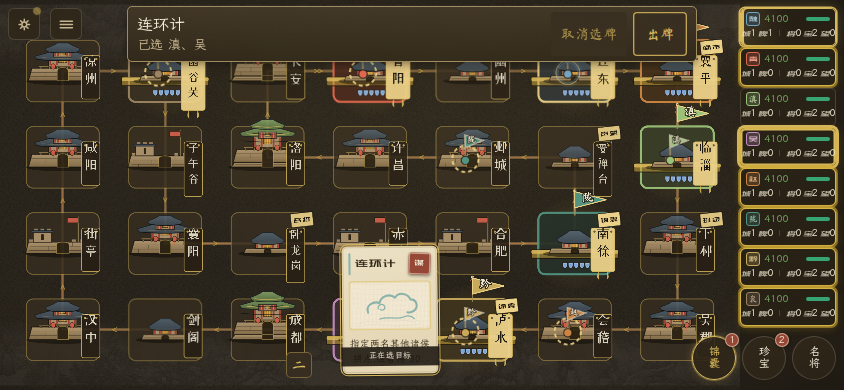
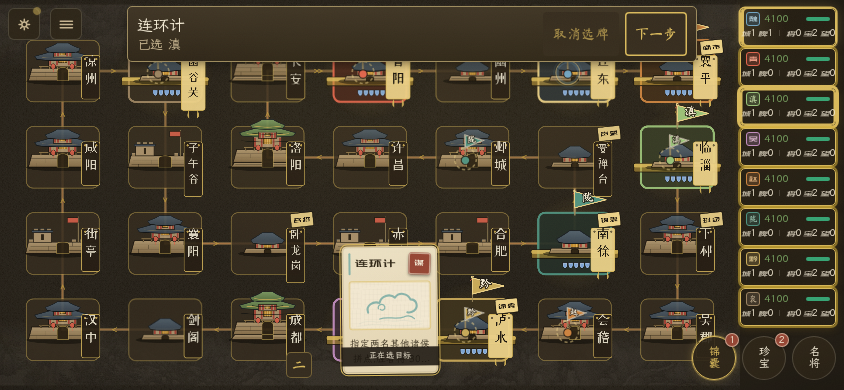
prototype: 同一动作条显示反应范围并支持返回改选（#1403）

diff --git a/src/app/screens/game/GameScreen.tsx b/src/app/screens/game/GameScreen.tsx
@@ -245,10 +245,13 @@ function GameScreenLive({
   const [junshiTargetSeat, setJunshiTargetSeat] = useState<number | null>(null);
   // 城目标首点选中、再点取消、点他格改选,执行经动作条确认。进/出目标段清空。
   const [junshiTargetTile, setJunshiTargetTile] = useState<number | null>(null);
+  // 目标段仍存在时，命令在途的操作锁不能清掉上一步带回的草稿。
+  const hasPendingTarget = snapshot.pendingJinnang != null || snapshot.pendingSkill != null;
+  const ownsJinnangWindow = junshiWindowUp && snapshot.decisionOwner === selfSeat;
   useEffect(() => {
     setJunshiTargetSeat(null);
     setJunshiTargetTile(null);
-  }, [junshiTargeting, junshiUp, selfSeat, selfPlayer.id]);
+  }, [hasPendingTarget, ownsJinnangWindow, selfSeat, selfPlayer.id]);
   const junshiOptions =
     junshiUp && !junshiTargeting
       ? snapshot.choices.filter((o) => o.id !== "pass" && o.id !== "cancel")
@@ -328,6 +331,7 @@ function GameScreenLive({
       // 选中必在(playEnabled 已闸的确认钮自门控),缺选静返=自门控口径(非兜底)。
       const target = junshiCityTargeting ? junshiTargetTile : junshiTargetSeat;
       if (target == null) return;
+      if (targetDemo != null && junshiPendingCard?.stage === "two-a") setJunshiTargetSeat(null);
       getAudio().play("stamp");
       dispatchCommand(junshiTargetCmd(target));
       return;
@@ -541,7 +545,7 @@ function GameScreenLive({
                 affected:
                   reactDomain === "one-city"
                     ? `受击城　${reaction.targetSeats.map(cityNameOf).join("、")}`
-                    : "全体其他诸侯受影响",
+                    : `其余 ${reaction.targetSeats.length} 位诸侯受影响`,
                 domain: reactDomain === "one-city" ? "city" : "seat",
               }
             : undefined
@@ -574,7 +578,8 @@ function GameScreenLive({
   const currentPrototypeTarget =
     junshiTargetTile != null
       ? cityNameOf(junshiTargetTile)
-      : junshiTargetSeat != null
+      : junshiTargetSeat != null &&
+          junshiSeatOptions.some((o) => o.available && o.targetSeat === junshiTargetSeat)
         ? seatLabelOf(junshiTargetSeat)
         : null;
   const prototypePicked = [
@@ -960,6 +965,23 @@ function GameScreenLive({
             testId={TESTIDS.actionbar}
             actions={
               <>
+                {junshiPendingCard?.stage === "two-b" && (
+                  <button
+                    type="button"
+                    className="reaction-btn qian"
+                    data-testid={TESTIDS.actionbarPreviousTarget}
+                    onClick={() => {
+                      setJunshiTargetSeat(junshiPendingCard.picked[0]);
+                      dispatchCommand({
+                        type: "useJinnang",
+                        cardId: junshiPendingCard.cardId,
+                        previousTargetStep: true,
+                      });
+                    }}
+                  >
+                    上一步
+                  </button>
+                )}
                 <button type="button" className="reaction-btn qian" onClick={junshiPass}>
                   {junshiTargeting ? "取消选牌" : "不出"}
                 </button>

diff --git a/src/core/authority.ts b/src/core/authority.ts
@@ -44,6 +44,7 @@ import {
   resolveJinnang,
   settleJinnangExit,
   type PendingJinnang,
+  type UseJinnangCommand,
   type PendingHeroSkill,
 } from "./jinnang-execution";
 // 机遇主流程+体力耗竭域(#320,ADR-0019):机遇触发抽取/抉择机遇入相与选项结算/效果
@@ -186,7 +187,7 @@ export type GameCommand =
     }
   | { type: "declareBankruptcy" }
   | { type: "confirmBankruptcySettle"; assets: BankruptcyAsset[] }
-  | { type: "useJinnang"; cardId: string | null; targets?: number[]; cancel?: boolean } // 锦囊(#122):null=今不用;targets=目标座位(T3/T4 目标段);cancel=作罢(保留牌)
+  | UseJinnangCommand
   | { type: "useHeroSkill"; heroId: string; skillId: string; targets?: number[]; cancel?: boolean } // 名将主动技(#188 档 3;#817 携实例):heroId+skillId=麾下实例定位对(选项 id 拼接单源 choices.skillOptionId),发动直落本实例;targets=目标座位(目标段);cancel=作罢(回卡牌段)
   | { type: "useBookSkill"; treasureId: string; heroId: string } // 用书学技(#1146):treasureId=珍宝位技能书实例,heroId=可学者(skillBookLearners 槽位序单源);技 id 随书派生不另行携带,书用后消耗
   | { type: "dismissHero"; heroId: string } // 遣散(#1147):免费主动遣散——槽移除+回池划名+已学技逐册折书;自己回合随时可点(他座决策窗除外),清算期间禁用
@@ -923,7 +924,12 @@ export class GameEngine {
       case "respondSkillChoice": // 「你可」应答(#1377):决策者=挂问属主=本相位 decisionOwner
         return this.respondSkillChoice(cmd.seat, cmd.use, cmd.targetSeat);
       case "useJinnang":
-        return this.resolveJinnang(cmd.cardId ?? null, cmd.targets, cmd.cancel);
+        return this.resolveJinnang(
+          cmd.cardId ?? null,
+          cmd.targets,
+          cmd.cancel,
+          cmd.previousTargetStep,
+        );
       case "useHeroSkill":
         return this.resolveHeroSkill(cmd.heroId, cmd.skillId, cmd.targets, cmd.cancel);
       case "useBookSkill":
@@ -1164,8 +1170,13 @@ export class GameEngine {
   }
 
   /** 用锦囊(#122/T2):薄委托 → jinnang-execution.resolveJinnang。 */
-  resolveJinnang(cardId: string | null, targets?: number[], cancel?: boolean): void {
-    resolveJinnang(this, cardId, targets, cancel);
+  resolveJinnang(
+    cardId: string | null,
+    targets?: number[],
+    cancel?: boolean,
+    previousTargetStep?: true,
+  ): void {
+    resolveJinnang(this, cardId, targets, cancel, previousTargetStep);
   }
 
   /** 发动主动技(#188 档 3;#817 实例定位):薄委托 → jinnang-execution.resolveHeroSkill。 */

diff --git a/src/core/jinnang-execution.ts b/src/core/jinnang-execution.ts
@@ -51,6 +51,15 @@ export interface PendingJinnang {
   picked: number[];
 }
 
+export interface UseJinnangCommand {
+  type: "useJinnang";
+  cardId: string | null;
+  targets?: number[];
+  cancel?: boolean;
+  /** 多步目标选择从后一步退回，保留牌，重新计算候选。 */
+  previousTargetStep?: true;
+}
+
 /** 技能目标段载荷(#188 档 3;#817 携实例定位):选技后进入选人子状态(AwaitingJinnang
  *  相位内重算选项集);heroId+skillId=麾下实例定位对(与选项 id/命令同形状,拼接单源
  *  choices.skillOptionId),发动直落本实例。随快照走(目标段中途断线可恢复)。
@@ -156,8 +165,18 @@ export function resolveJinnang(
   cardId: string | null,
   targets?: number[],
   cancel?: boolean,
+  previousTargetStep?: true,
 ): void {
   if (!g.assertPhase("AwaitingJinnang", "resolveJinnang")) return;
+  const pending = g.pendingJinnang;
+  if (previousTargetStep) {
+    if (pending?.stage !== "two-b" || cardId !== pending.cardId || cancel || targets != null) {
+      g.warn(`锦囊无法返回上一目标步骤:${cardId}`);
+      return;
+    }
+    g.pendingJinnang = { cardId: pending.cardId, stage: "two-a", picked: [] };
+    return;
+  }
   const p = g.activePlayer;
   const userSeat = g.players.indexOf(p);
 
@@ -172,7 +191,6 @@ export function resolveJinnang(
   }
 
   // ── 目标段:提交目标 / 作罢 ──
-  const pending = g.pendingJinnang;
   if (pending) {
     const def = jinnangCardOf(pending.cardId);
     if (cancel || cardId == null) {

diff --git a/src/app/screens/game/target-decision.prototype.css b/src/app/screens/game/target-decision.prototype.css
@@ -19,6 +19,11 @@
   border: 1px solid var(--color-gold-wash);
   border-radius: 5px;
   box-shadow: var(--ink-shadow-sm);
+  pointer-events: none;
+}
+
+.game-layout .target-decision-prototype:has(.reaction-timerbox.danger) {
+  border-color: color-mix(in srgb, var(--color-danger) 55%, transparent);
 }
 
 .target-decision-prototype-copy {
@@ -27,18 +32,23 @@
 }
 
 .target-decision-prototype-copy p {
-  margin: 3px 0 0;
-  color: var(--color-paper-dim);
+  margin: 2px 0 0;
   font-size: 13px;
+}
+
+.target-decision-prototype-prompt {
+  color: var(--color-paper-dim);
 }
 
 .target-decision-prototype-actions {
   display: flex;
   align-items: center;
+  flex: 0 0 auto;
   gap: 6px;
 }
 
 .target-decision-prototype .reaction-btn {
+  pointer-events: auto;
   justify-content: center;
   min-width: 54px;
   padding-inline: 10px;
@@ -47,7 +57,10 @@
 }
 
 .target-decision-prototype .reaction-mute {
-  padding-inline: 6px;
-  border-inline-start: 1px solid var(--hairline);
+  flex: 0 0 auto;
+  margin-inline: auto 8px;
+  padding-inline: 9px;
+  border-inline: 1px solid var(--hairline);
   font-family: var(--font-brush);
+  pointer-events: auto;
 }

diff --git a/src/app/screens/game/TargetDecision.prototype.tsx b/src/app/screens/game/TargetDecision.prototype.tsx
@@ -8,14 +8,18 @@ export const targetDemo =
 
 export function TargetDecisionPrototype({
   title,
+  affected,
   prompt,
   timer,
+  mute,
   actions,
   testId,
 }: {
   title: string;
+  affected?: string;
   prompt: string;
   timer?: ReactNode;
+  mute?: ReactNode;
   actions: ReactNode;
   testId: string;
 }) {
@@ -24,8 +28,12 @@ export function TargetDecisionPrototype({
       {timer}
       <div className="target-decision-prototype-copy">
         <div>{title}</div>
-        <p aria-live="polite">{prompt}</p>
+        {affected && <p>{affected}</p>}
+        <p className="target-decision-prototype-prompt" aria-live="polite">
+          {prompt}
+        </p>
       </div>
+      {mute}
       <div className="target-decision-prototype-actions">{actions}</div>
     </div>
   );

diff --git a/src/app/screens/game/testids.ts b/src/app/screens/game/testids.ts
@@ -120,6 +120,7 @@ export const TESTIDS = {
   actionbarPass: "actionbar-pass",
   /** 目标段确认钮,未选目标时显示「选择目标」且禁用,选中后显示「出」。 */
   actionbarTarget: "actionbar-target",
+  actionbarPreviousTarget: "actionbar-previous-target",
   /** 目标段「作罢」(收回此计牌:不消耗、不记冷却)。 */
   actionbarCancel: "actionbar-cancel",
   /** 目标段席位按钮(含自机);首点选中、再点取消,打出经动作条确认。 */

diff --git a/src/app/screens/game/ReactionBanner.tsx b/src/app/screens/game/ReactionBanner.tsx
@@ -214,14 +214,15 @@ export function ReactionBanner({
     return (
       <TargetDecisionPrototype
         title={prototypeContext?.title ?? text}
+        affected={prototypeContext?.affected}
         prompt={prototypeBoardPrompt}
         testId={TESTIDS.reactionBanner}
         timer={timer}
+        mute={mute}
         actions={
           <>
             {decline}
             {confirm}
-            {mute}
           </>
         }
       />

diff --git a/docs/design/ui-reference/prototype-1403/target-selection.md b/docs/design/ui-reference/prototype-1403/target-selection.md
@@ -1,6 +1,6 @@
 # 锦囊共用目标选择
 
-工单 [反应窗的份额选择、拍板与降噪层级](https://github.com/openaddr/dafung-web/issues/1403) 的待确认提案。玩家可以沿同一条操作路径选择诸侯、城池或要保护的一份，看到选中结果后再确认。
+工单 [反应窗的份额选择、拍板与降噪层级](https://github.com/openaddr/dafung-web/issues/1403) 的设计决策。玩家沿同一条操作路径选择诸侯、城池或要保护的一份，看到选中结果后再出牌。
 
 ## 三国杀对照
 
@@ -10,22 +10,28 @@
 
 ## 统一操作
 
-动作条固定显示牌名、当前选择提示、已选对象和确认／放弃。候选诸侯在席位上点亮，候选城池在棋盘上点亮。点选改变草稿，再点取消。手牌架收起后，动作条和已选对象仍可读可操作。反应窗另有来者、现有倒计时和独立的降噪口。
+动作条固定在顶部，显示牌名、当前选择提示、已选对象和对应按钮。候选诸侯在席位上点亮，候选城池在棋盘上点亮。点选改变草稿，再点取消。手牌架收起后，动作条和已选对象仍可读可操作。
 
-| 场景           | 本步选择                                   | 确认后的行为                 |
-| -------------- | ------------------------------------------ | ---------------------------- |
-| 窃玉偷香       | 一位有珍宝的诸侯                           | 出牌                         |
-| 连环计         | 先选第一位，保留已选国号，再选另一位       | 第一步进入下一步，第二步出牌 |
-| 火烧连营       | 在棋盘选一座火源                           | 引擎计算火源和溅射的受击城   |
-| 横征暴敛       | 引擎圈定全体其他诸侯                       | 直接出牌                     |
-| 识破诡计       | 从能保护的席位份或城份中选择一份           | 按当前反应窗规则落印         |
-| 将来的弹性多选 | 在同一组中点选 1 至 N 个，满足下限即可确认 | 提交整组选中项               |
-| 将来的依赖选择 | 提示写明每步对象，下一步候选随上一步变化   | 逐步确认，末步提交           |
+反应窗采用 B 的分区。在点反应锦囊前同时显示出牌者、牌名、影响范围和倒计时，选牌、选对象、出牌都在同一位置查看。「出牌／不出」位置固定，「本回合不再询问」单独分开，一步可达。影响范围读本次事件的对象，火烧连营列受击城的名字，横征暴敛给出受影响的诸侯人数。这些文字在选中保护对象后继续显示。
+
+| 场景           | 本步选择                                   | 确认后的行为                       |
+| -------------- | ------------------------------------------ | ---------------------------------- |
+| 窃玉偷香       | 一位有珍宝的诸侯                           | 出牌                               |
+| 连环计         | 先选第一位，再选另一位，第二步可返回改选   | 「下一步」进入第二步，「出牌」提交 |
+| 火烧连营       | 在棋盘选一座火源                           | 引擎计算火源和溅射的受击城         |
+| 横征暴敛       | 引擎圈定全体其他诸侯                       | 直接出牌                           |
+| 识破诡计       | 从能保护的席位份或城份中选择一份           | 按当前反应窗规则出牌               |
+| 将来的弹性多选 | 在同一组中点选 1 至 N 个，满足下限即可确认 | 提交整组选中项                     |
+| 将来的依赖选择 | 提示写明每步对象，下一步候选随上一步变化   | 逐步确认，末步提交                 |
 
 同牌可以同时出现手选目标和规则推导的受击对象。出火烧连营只选火源。显示溅射预览时，由引擎从火源推导受击城。使用识破诡计时，从当前反应窗的受击城中选保护对象。反识破和整计免选的情况直接使用该窗给定的对象与操作。
+
+从后续步骤点「上一步」，先前的选择仍显示为选中，可保留或更换。再次前进时重新计算候选，后续步骤重新选择。连环计改选第一位后，原第一位重新成为第二步候选。「取消选牌」回到手牌区，最终点「出牌」才结算。
 
 ## 落点
 
 现有 `TARGET_DOMAIN_STAGES`、`choices`、`pendingJinnang` 和反应窗载荷继续提供规则事实。共用界面消费本步提示、带对象类型的候选、已选项、数量边界、下一步或最终提交。反应份另外携该次效果的身份，避免同个诸侯或同座城受到多份效果时混淆。城格和座位即使编号相同也用各自的对象类型。具体规则与提交校验由引擎负责，界面复用选中、摘要、按钮可用状态和拍板。已有的目标段与反应窗命令可作为两种接入。
 
 第一轮实盘用连环计两步、火烧连营选火源、识破同一幕的城份检验同一套构图。844×390 下要能看到已选、读清长城名、取消当前选择，并随着阶段正确进入下一步或最终提交。反应窗附加验证收架后找得到「锦囊」、降噪与拍板触区避让，以及实际遮挡。弹性多选在固定示例中检验交互，正式新增牌时补对应权威校验。
+
+正式规格同步修订 [ADR-0032 的响应条位置](../../../adr/0032-hud-float-form-tiers.md) 和 [DESIGN 的反应窗](../../DESIGN.md)。出牌与反应期间临时显示顶部动作条，原位置的知会槽让位。安卓验收检查顶部第一排城格、手牌开收和按钮触区。

diff --git a/docs/design/ui-reference/prototype-1403/in-game/README.md b/docs/design/ui-reference/prototype-1403/in-game/README.md
@@ -2,14 +2,14 @@
 
 同一张关中图、相同八席在 844×390 下实点。原型将动作条放在顶部，经过选牌、目标选择和确认时都在同一位置。
 
-- **连环计**先从下方手牌区点牌，再点顶部「选目标」。两位诸侯都在右侧席位区选，顶部「下一步」锁定第一位，第二步展示第一位国号。选完两位后在顶部「出牌」。[手牌区](duel-1.png) · [右侧选第二位](duel-5.png) · [顶部出牌](duel-6.png)
+- **连环计**先从下方手牌区点牌，再点顶部「选目标」。两位诸侯都在右侧席位区选。点「下一步」后可以点「上一步」回到第一步，原第一位仍为选中。改选第一位后，第二步候选随之更新。选完两位后在顶部「出牌」。[手牌区](duel-1.png) · [上一步入口](duel-5.png) · [返回保留首选](duel-6.png) · [改选后出牌](duel-9.png)
 - **火烧连营**从手牌区点牌并选择目标后，牌架自动收起，在地图上点一座城作火源，再到顶部「出牌」。[地图选城](fire-3.png)
-- **识破诡计**先点手牌中的反应锦囊，牌架自动收起，地图亮出本次的三座受击城。点其中一城，顶部回显保护对象并启用「出牌」。[地图选保护对象](counter-2.png) · [顶部出牌](counter-3.png)
+- **识破诡计**反应窗一开就显示来者、牌名、倒计时和本次三座受击城的名字，「本回合不再询问」单独分区。点手牌中的反应锦囊后，牌架自动收起，地图亮出可保护的城。点其中一城，顶部回显保护对象并启用「出牌」，按钮位置保持不变。[选牌前的影响范围](counter-1.png) · [地图选保护对象](counter-2.png) · [顶部出牌](counter-3.png)
 
 ## 横征暴敛
 
 - **出牌**在下方手牌区点牌。顶部显示其余在场诸侯的人数及每位征收上限，点「出牌」即对这些人结算。八席局的这一幕有七位诸侯各付 200 两。[顶部确认](levy-2.png) · [缴付结果](levy-3.png)
-- **识破**在下方点反应锦囊。右侧七个受影响席位可点，选一人后顶部显示保护对象并启用「出牌」。实点保护「滇」后，滇保留原现金，其余六位各付 200 两。[席位选份](levy-counter-2.png) · [顶部出牌](levy-counter-3.png) · [免征结果](levy-counter-4.png)
+- **识破**选牌前顶部显示其余七位诸侯受影响。在下方点反应锦囊后，右侧七个受影响席位可点，选一人后顶部显示保护对象并启用「出牌」。实点保护「滇」后，滇保留原现金，其余六位各付 200 两。[选牌前的影响范围](levy-counter-1.png) · [席位选份](levy-counter-2.png) · [顶部出牌](levy-counter-3.png) · [免征结果](levy-counter-4.png)
 
 出牌场景参数为 `?target-demo=levy`，识破为 `?target-demo=levy-counter`。
 
